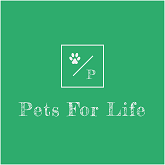
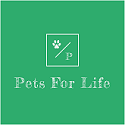
updated footer

diff --git a/public/petCare.html b/public/petCare.html
@@ -13,9 +13,9 @@
    <div class="nav">
     <a href="index.html">home</a>
     <a href="pet.html">pets</a>
-    <a href="petCare.html">pet care</a>
+    <a href="petCare.html">care</a>
     <a href="supplies.html">supplies</a>
-    <a href="aboutUs.html">about us</a> 
+    <a href="aboutUs.html">about</a> 
   </div>
  
 
@@ -56,9 +56,8 @@
 </body>
 <footer class="footer">
   <br><br>
-  <p><small>contact us</small></p>
-  <small><a href="mailto:kcooper11@student.cvtc.edu">Kat Cooper</a></small><br>
-  <small><a href="mailto:colliernw@gmail.com">Nicholas Collier</a></small>
+  <p><small><a href="aboutUs.html">contact us</a> </small></p>
+  
 </footer>
 
 </html>

diff --git a/public/css/style.css b/public/css/style.css
@@ -6,8 +6,8 @@ body {
 
 .logoImg {
   background-image: url("../images/pfl.png");
-  height: 165px;
-  width: 165px;
+  height: 123px;
+  width: 123px;
   background-position: center;
   background-size: cover;
   position: relative;
@@ -19,7 +19,7 @@ h1 {
 }
 
 .nav { 
-  margin-top: 117px;
+  /* margin-top: 117px; */
   float: left;
   overflow: hidden;
   background-color: rgb(236, 185, 44);
@@ -46,8 +46,8 @@ h1 {
   float: left;
 }
 
-.footer {
-  position: fixed;
+footer {
+  position: absolute;
   bottom: 0;
   text-align: center;
   width: 100%;

diff --git a/public/index.html b/public/index.html
@@ -31,9 +31,8 @@
 </body>
 <footer class="footer">
   <br><br>
-  <p><small>contact us</small></p>
-  <small><a href="mailto:kcooper11@student.cvtc.edu">Kat Cooper</a></small><br>
-  <small><a href="mailto:colliernw@gmail.com">Nicholas Collier</a></small>
+  <p><small><a href="aboutUs.html">contact us</a></small></p>
+  
 </footer>
 
 </html>

diff --git a/public/pet.html b/public/pet.html
@@ -49,9 +49,8 @@
 </body>
 <footer class="footer">
   <br><br>
-  <p><small>contact us</small></p>
-  <small><a href="mailto:kcooper11@student.cvtc.edu">Kat Cooper</a></small><br>
-  <small><a href="mailto:colliernw@gmail.com">Nicholas Collier</a></small>
+  <p><small><a href="aboutUs.html">contact us</a></small></p>
+  
 </footer>
 
 </html>

diff --git a/public/supplies.html b/public/supplies.html
@@ -55,9 +55,8 @@
 </body>
 <footer class="footer">
   <br><br>
-  <p><small>contact us</small></p>
-  <small><a href="mailto:kcooper11@student.cvtc.edu">Kat Cooper</a></small><br>
-  <small><a href="mailto:colliernw@gmail.com">Nicholas Collier</a></small>
+  <p><small><a href="aboutUs.html">contact us</a></small></p>
+ 
 </footer>
 
 </html>

diff --git a/public/aboutUs.html b/public/aboutUs.html
@@ -43,9 +43,8 @@
 
 <footer class="footer">
   <br><br>
-  <p><small>contact us</small></p>
-  <small><a href="mailto:kcooper11@student.cvtc.edu">Kat Cooper</a></small><br>
-  <small><a href="mailto:colliernw@gmail.com">Nicholas Collier</a></small>
+  <p><small><a href="aboutUs.html">contact us</a></small></p>
+
 </footer>
 
 </html>
